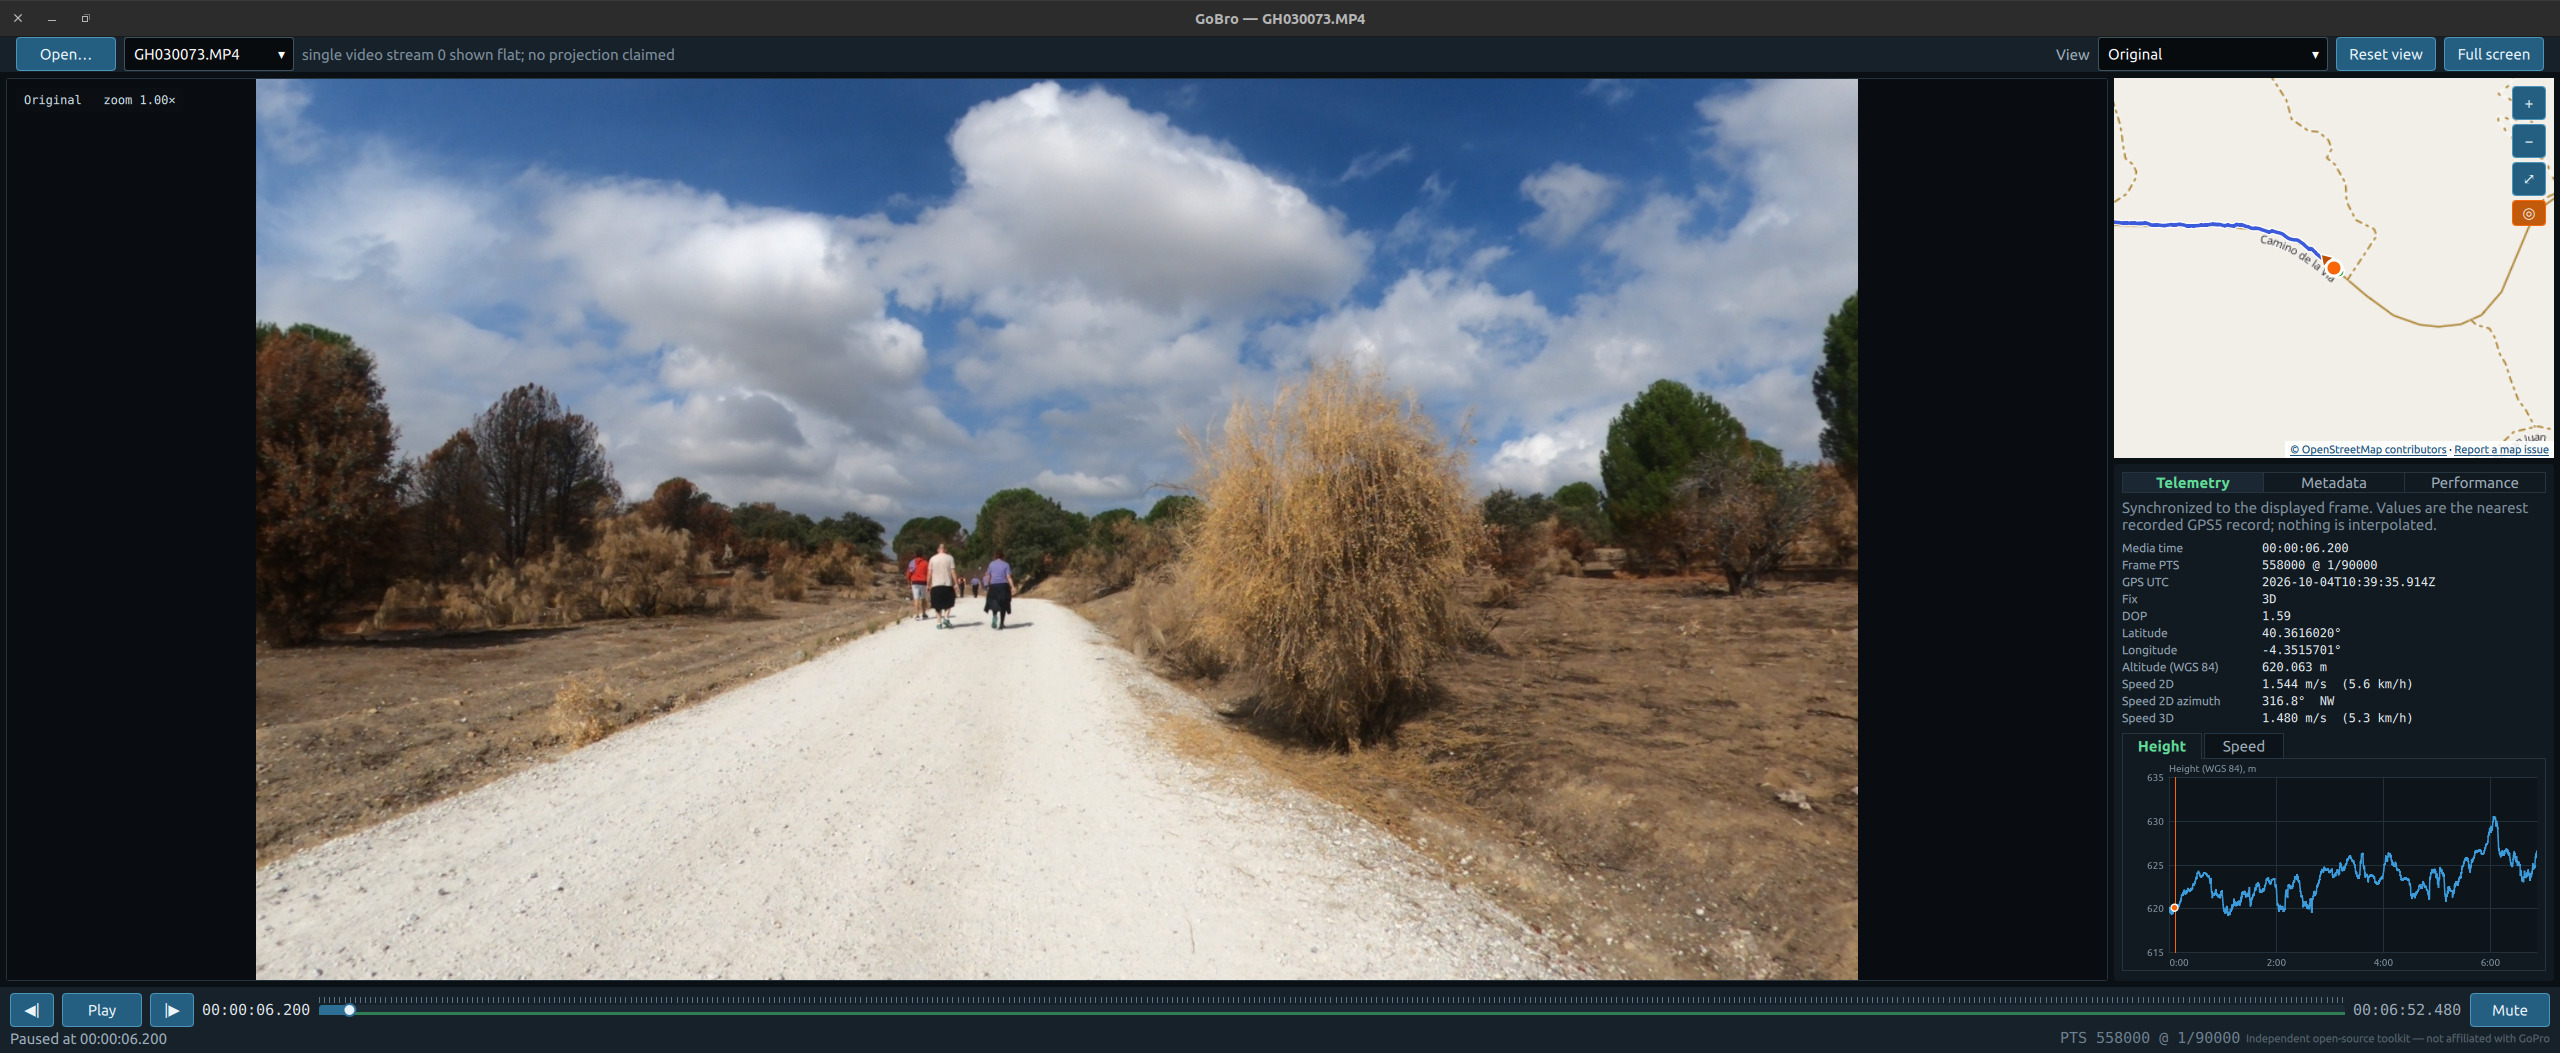
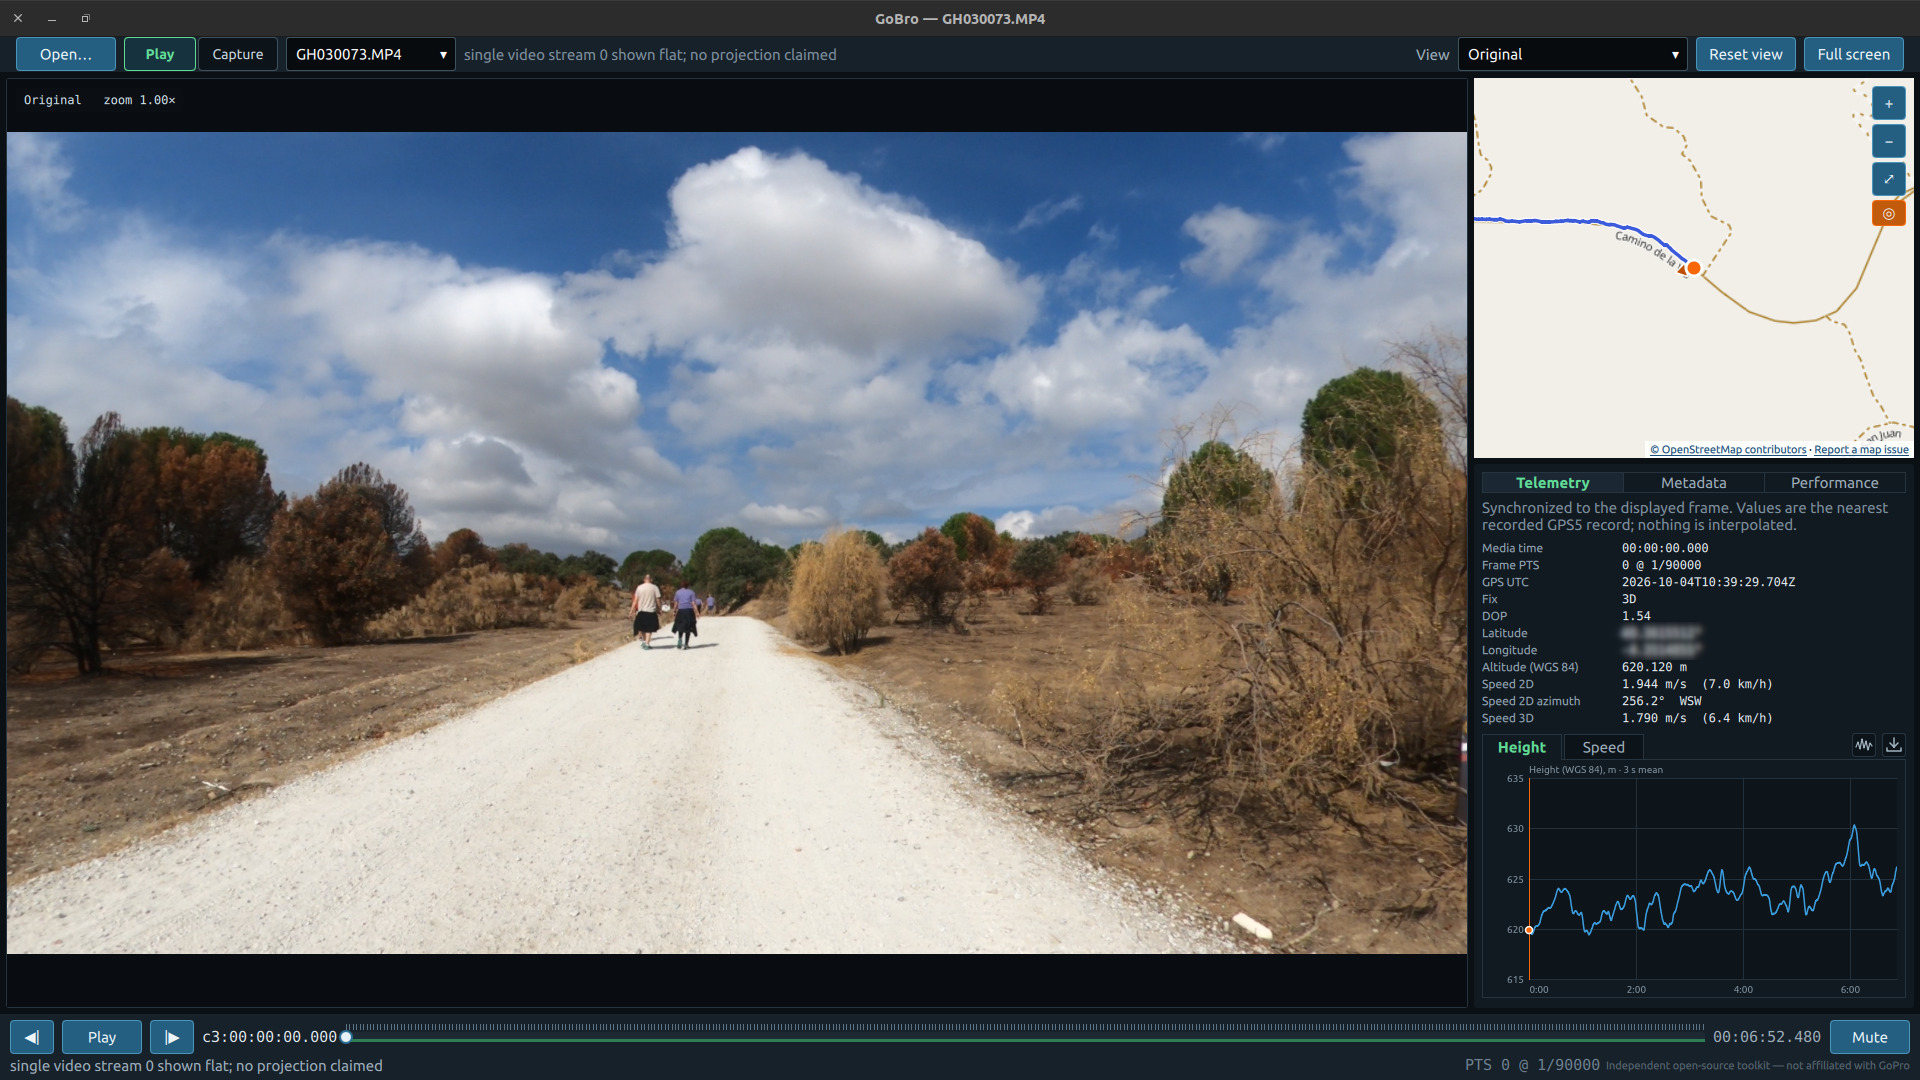
docs: new gb-player screenshot and a gb-render frame in the READMEs

diff --git a/README.md b/README.md
@@ -25,8 +25,13 @@ with telemetry text, a route map and speed/height graphs, over the picture or on
 across chapters. The M6 export milestone is in progress; see
 [`docs/TODO-Before-V1.0.md`](docs/TODO-Before-V1.0.md).
 
-![gb-player playing a GoPro recording of a dirt track, with the OpenStreetMap route map and the
-synchronized GPS telemetry panel on the right](docs/screenshots/gb-player.jpg)
+![gb-player playing a GoPro recording of a walk along a gravel track, with the OpenStreetMap
+route map, the synchronized GPS telemetry panel and the height graph on the
+right](docs/screenshots/gb-player.jpg)
+
+![A frame exported by gb-render: a ride along a dirt road with the clock, speed, altitude and
+distance drawn over the picture and a round OpenStreetMap route map in the top right
+corner](docs/screenshots/gb-render.jpg)
 
 ## Build and test
 

diff --git a/docs/TODO-Before-V1.0.md b/docs/TODO-Before-V1.0.md
@@ -55,8 +55,8 @@ Plan: [`plans/lens-modes.md`](plans/lens-modes.md).
       builds and installs them locally.
 - [ ] Review the first draft (`v1.0`): install the `.deb` on Ubuntu and the `.rpm` on Fedora
       before publishing it.
-- [ ] Better README screenshots: a MAX `.360` in a spherical view instead of the flat MP4, and a
-      Capture mode or `gb-render` frame.
+- [ ] Better README screenshots: a MAX `.360` in a spherical view instead of the flat MP4. (A
+      `gb-render` frame is in place.)
 - [ ] `VERSION` to `1.0`, a 1.0 section in `CHANGELOG.md`, tag `v1.0`.
 
 ## To decide: do before v1.0 or drop explicitly

diff --git a/tools/gb-render/README.md b/tools/gb-render/README.md
@@ -6,6 +6,9 @@ settings files and options, so it can be repeated exactly. The design is in
 [`docs/plans/export/`](../../docs/plans/export/README.md) and
 [ADR-0013](../../docs/adr/0013-video-export-with-gb-render.md).
 
+![A frame exported by gb-render: the clock, speed, altitude and distance drawn over the picture
+and a round OpenStreetMap route map in the top right corner](../../docs/screenshots/gb-render.jpg)
+
 ```sh
 gb-render --example-settings > ride.ini          # a commented settings file to start from
 gb-render GH010073.MP4 --settings framing.ini --settings ride.ini --dry-run

diff --git a/apps/gb-player/README.md b/apps/gb-player/README.md
@@ -32,6 +32,10 @@ recordings read-only and plays them without conversion:
   `GP__nnnn.JPG`, are shown flat with zoom and pan. There is no transport, timeline, height/speed
   graph or audio. See [Photos](#photos) and ADR-0011.
 
+![gb-player playing a GoPro recording of a walk along a gravel track, with the OpenStreetMap
+route map, the synchronized GPS telemetry panel and the height graph on the
+right](../../docs/screenshots/gb-player.jpg)
+
 ## Use
 
 ```sh
